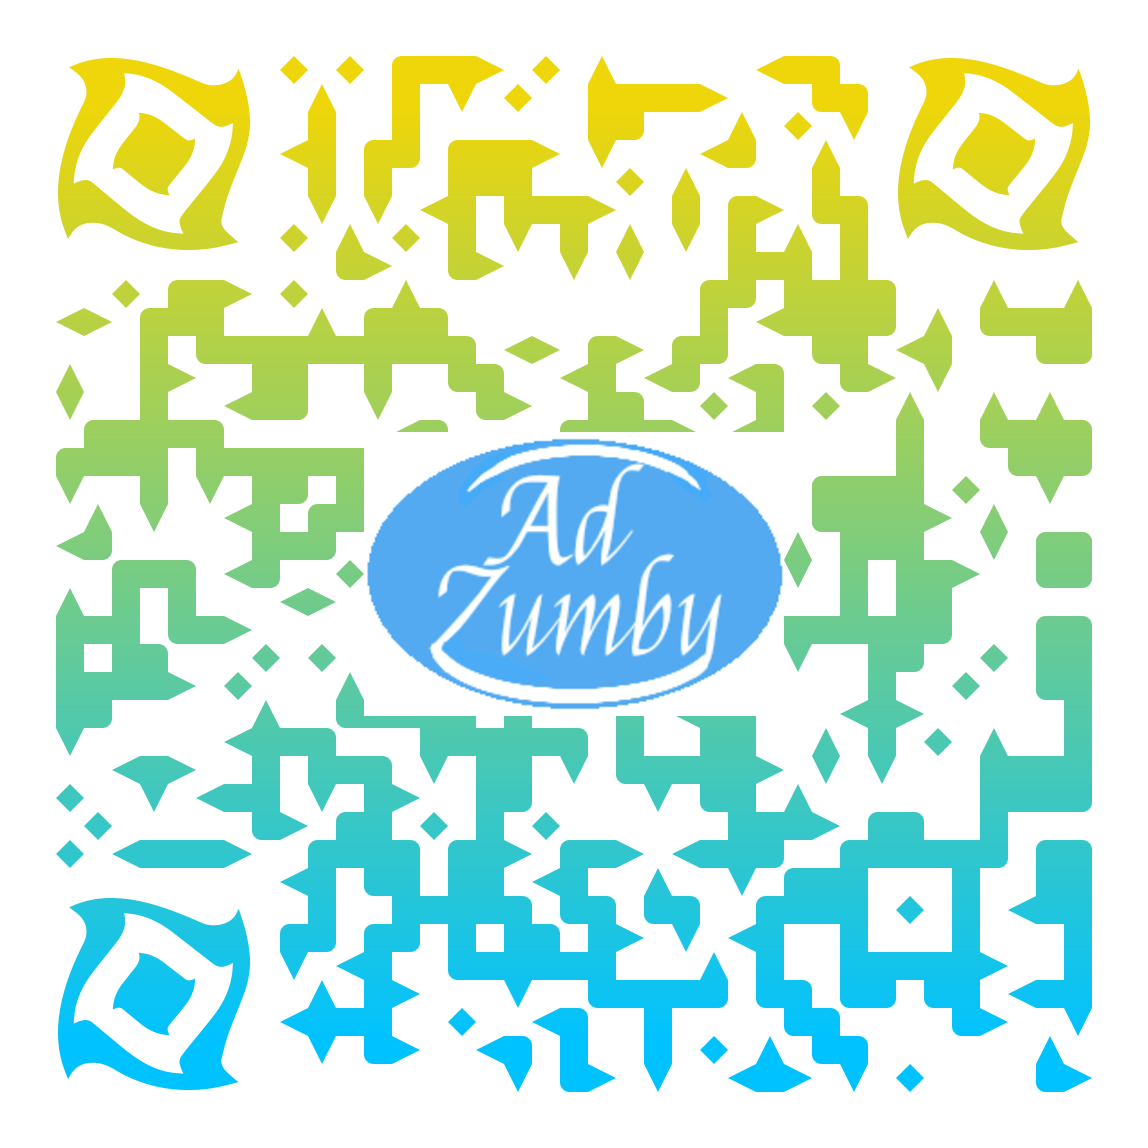
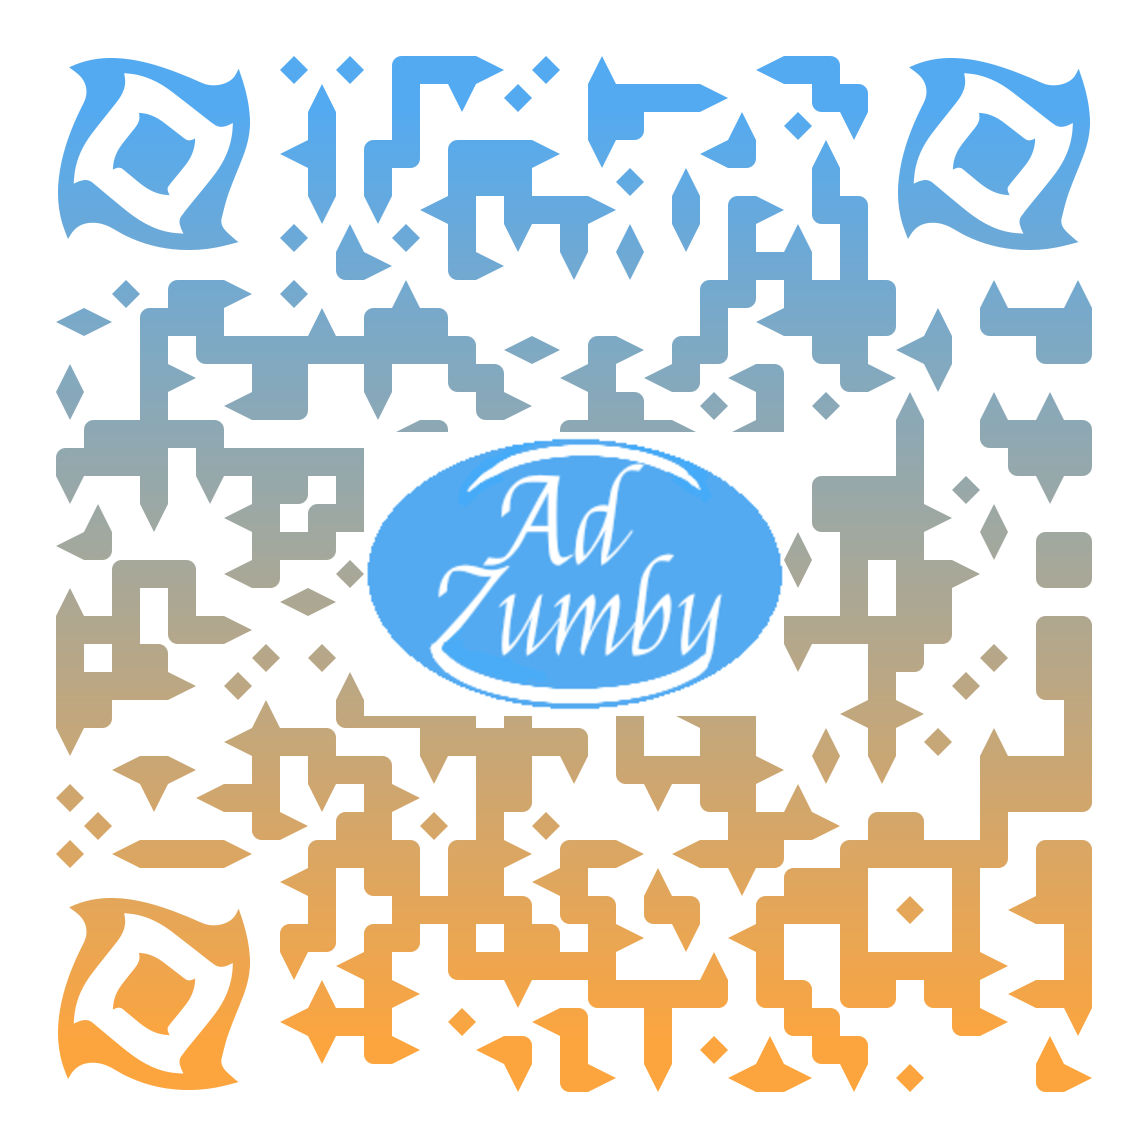
add google analytics and update boom QR image

diff --git a/about.html b/about.html
@@ -1,6 +1,17 @@
 <!DOCTYPE html>
 <html style="font-size: 16px;">
   <head>
+
+    <!-- Global site tag (gtag.js) - Google Analytics -->
+    <script async src="https://www.googletagmanager.com/gtag/js?id=G-TXHPRB30QN"></script>
+    <script>
+      window.dataLayer = window.dataLayer || [];
+      function gtag(){dataLayer.push(arguments);}
+      gtag('js', new Date());
+
+      gtag('config', 'G-TXHPRB30QN');
+    </script>
+
     <meta name="viewport" content="width=device-width, initial-scale=1.0">
     <meta charset="utf-8">
     <meta name="keywords" content="About Us">

diff --git a/boom.html b/boom.html
@@ -1,6 +1,17 @@
 <!DOCTYPE html>
 <html style="font-size: 16px;">
   <head>
+
+    <!-- Global site tag (gtag.js) - Google Analytics -->
+    <script async src="https://www.googletagmanager.com/gtag/js?id=G-TXHPRB30QN"></script>
+    <script>
+      window.dataLayer = window.dataLayer || [];
+      function gtag(){dataLayer.push(arguments);}
+      gtag('js', new Date());
+
+      gtag('config', 'G-TXHPRB30QN');
+    </script>
+
     <meta name="viewport" content="width=device-width, initial-scale=1.0">
     <meta charset="utf-8">
     <meta name="keywords" content="About Us">

diff --git a/contact.html b/contact.html
@@ -1,6 +1,17 @@
 <!DOCTYPE html>
 <html style="font-size: 16px;">
   <head>
+
+    <!-- Global site tag (gtag.js) - Google Analytics -->
+    <script async src="https://www.googletagmanager.com/gtag/js?id=G-TXHPRB30QN"></script>
+    <script>
+      window.dataLayer = window.dataLayer || [];
+      function gtag(){dataLayer.push(arguments);}
+      gtag('js', new Date());
+
+      gtag('config', 'G-TXHPRB30QN');
+    </script>
+
     <meta name="viewport" content="width=device-width, initial-scale=1.0">
     <meta charset="utf-8">
     <meta name="keywords" content="About Us">

diff --git a/index.html b/index.html
@@ -1,6 +1,17 @@
 <!DOCTYPE html>
 <html style="font-size: 16px;">
   <head>
+
+    <!-- Global site tag (gtag.js) - Google Analytics -->
+    <script async src="https://www.googletagmanager.com/gtag/js?id=G-TXHPRB30QN"></script>
+    <script>
+      window.dataLayer = window.dataLayer || [];
+      function gtag(){dataLayer.push(arguments);}
+      gtag('js', new Date());
+
+      gtag('config', 'G-TXHPRB30QN');
+    </script>
+
     <meta name="viewport" content="width=device-width, initial-scale=1.0">
     <meta charset="utf-8">
     <meta name="keywords" content="About Us">
